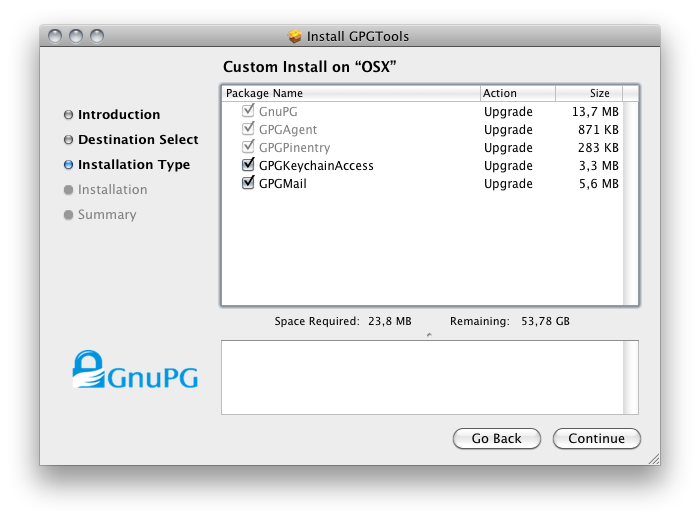
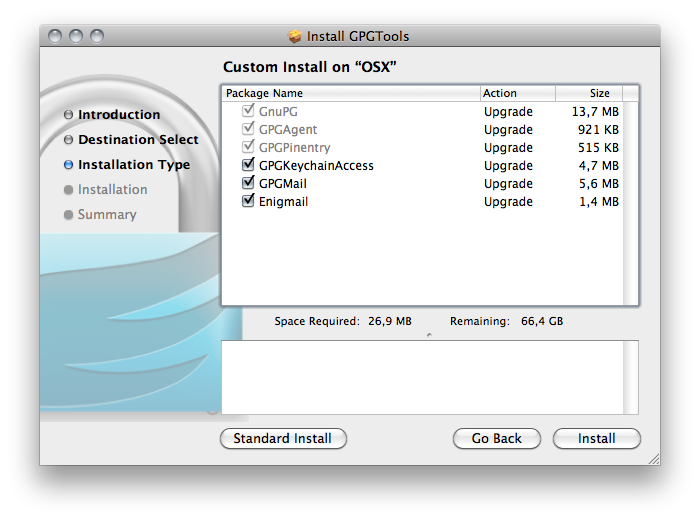
new installer version

diff --git a/installer.html b/installer.html
@@ -44,11 +44,11 @@
     <div id="spacer">
     </div>
     <div id="info">
-    <a href="http://github.com/downloads/gpgtools/GPGTools/GPGTools-20101113.dmg.zip" class='piwik_download'><img src="./images/download.png" title="download" alt="download" id="download"/></a>
-    <h3><a href="http://github.com/downloads/gpgtools/GPGTools/GPGTools-20101113.dmg.zip" class='piwik_download'>Download</a></h3>
-    <p>Version 2010.11.13</p>
-    <p>13. November 2010.</p>
-    <p><br>(<a href="https://github.com/downloads/GPGTools/GPGTools/GPGTools-20101113.dmg.zip.asc" class='piwik_download'>signature</a> | <a href="http://github.com/GPGTools/GPGTools/downloads">others</a>)</p>
+    <a href="https://github.com/downloads/GPGTools/GPGTools/GPGTools-20101220.dmg" class='piwik_download'><img src="./images/download.png" title="download" alt="download" id="download"/></a>
+    <h3><a href="https://github.com/downloads/GPGTools/GPGTools/GPGTools-20101220.dmg" class='piwik_download'>Download</a></h3>
+    <p>Version 2010.12.20</p>
+    <p>20. December 2010.</p>
+    <p><br>(<a href="https://github.com/downloads/GPGTools/GPGTools/GPGTools-20101220.dmg.asc" class='piwik_download'>signature</a> | <a href="http://github.com/GPGTools/GPGTools/downloads">others</a>)</p>
     </div>
     <div id="main">
         <div id="m_content">
@@ -64,6 +64,7 @@
             </ul>
             <h3>Screenshots</h3>
             <ul id="projects" class="sub">
+                <li><a href="./images/installer_dmg.png"><img class="screenshot" src="./images/installer_dmg.png" alt="The installation volume" title="The installation volume" />The installation volume</a></li>
                 <li><a href="./images/installer.png"><img class="screenshot" src="./images/installer.png" alt="List of components in the installer" title="List of components in the installer" />List of components in the installer</a></li>
             </ul>
             <h3>Screencasts</h3>
@@ -72,6 +73,13 @@
             </ul>
             <h3>Release Notes</h3>
             <p>Also have a look at the <a href="https://github.com/GPGTools/GPGTools/commits/master">list of last changes</a>.<br/><br/></p>
+            <p><b>Version 2010.12.20 (20.12.2010).</b></p>
+            <ul class="sub">
+                <li>Added Enigmail</li>
+                <li>Updated GPGKeychainAccess to 0.3.1b</li>
+                <li>Updated the background image</li>
+                <li>Removed the zip extension</li>
+            </ul>
             <p><b>Version 2010.11.13 (13.11.2010).</b></p>
             <ul class="sub">
                 <li>Updated GPGKeychainAccess to 0.2.2b</li>
